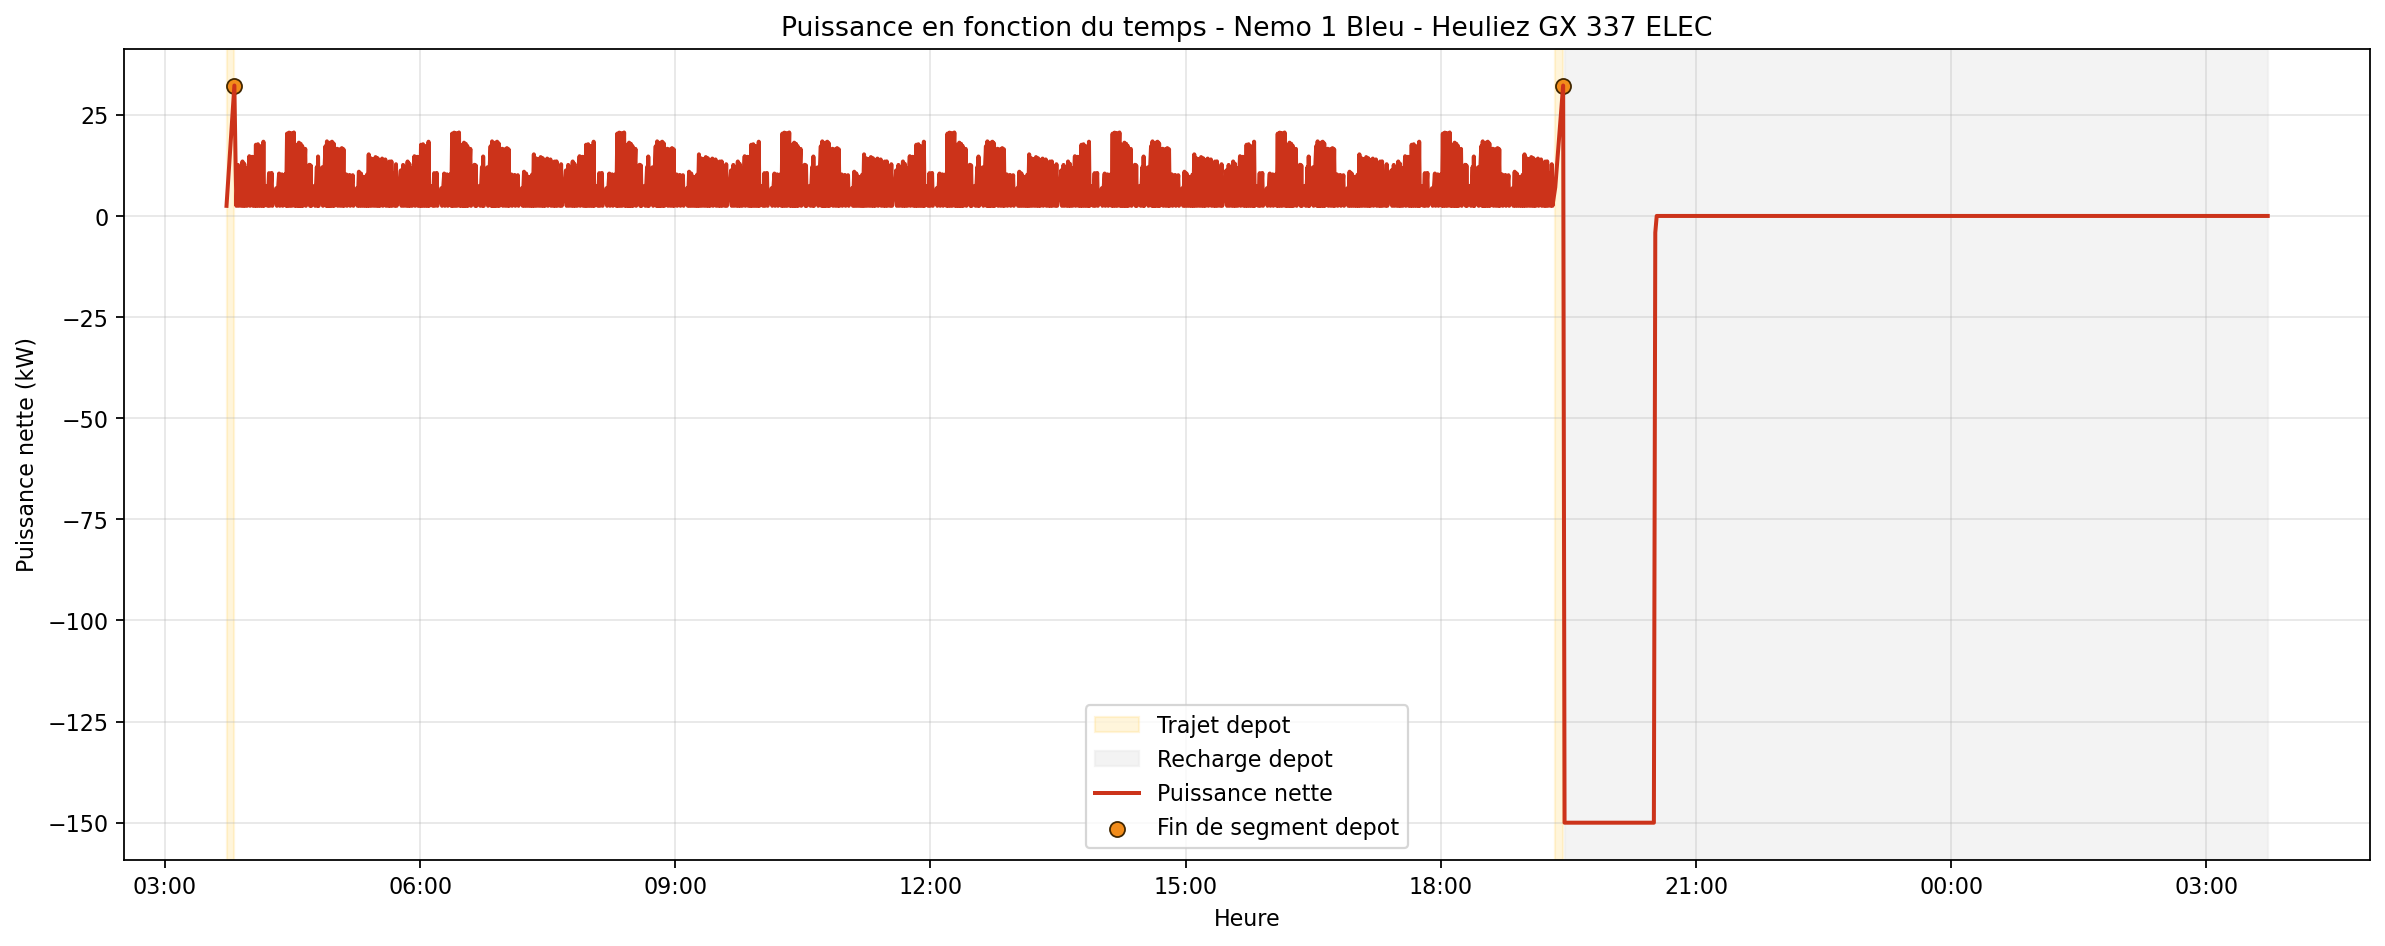
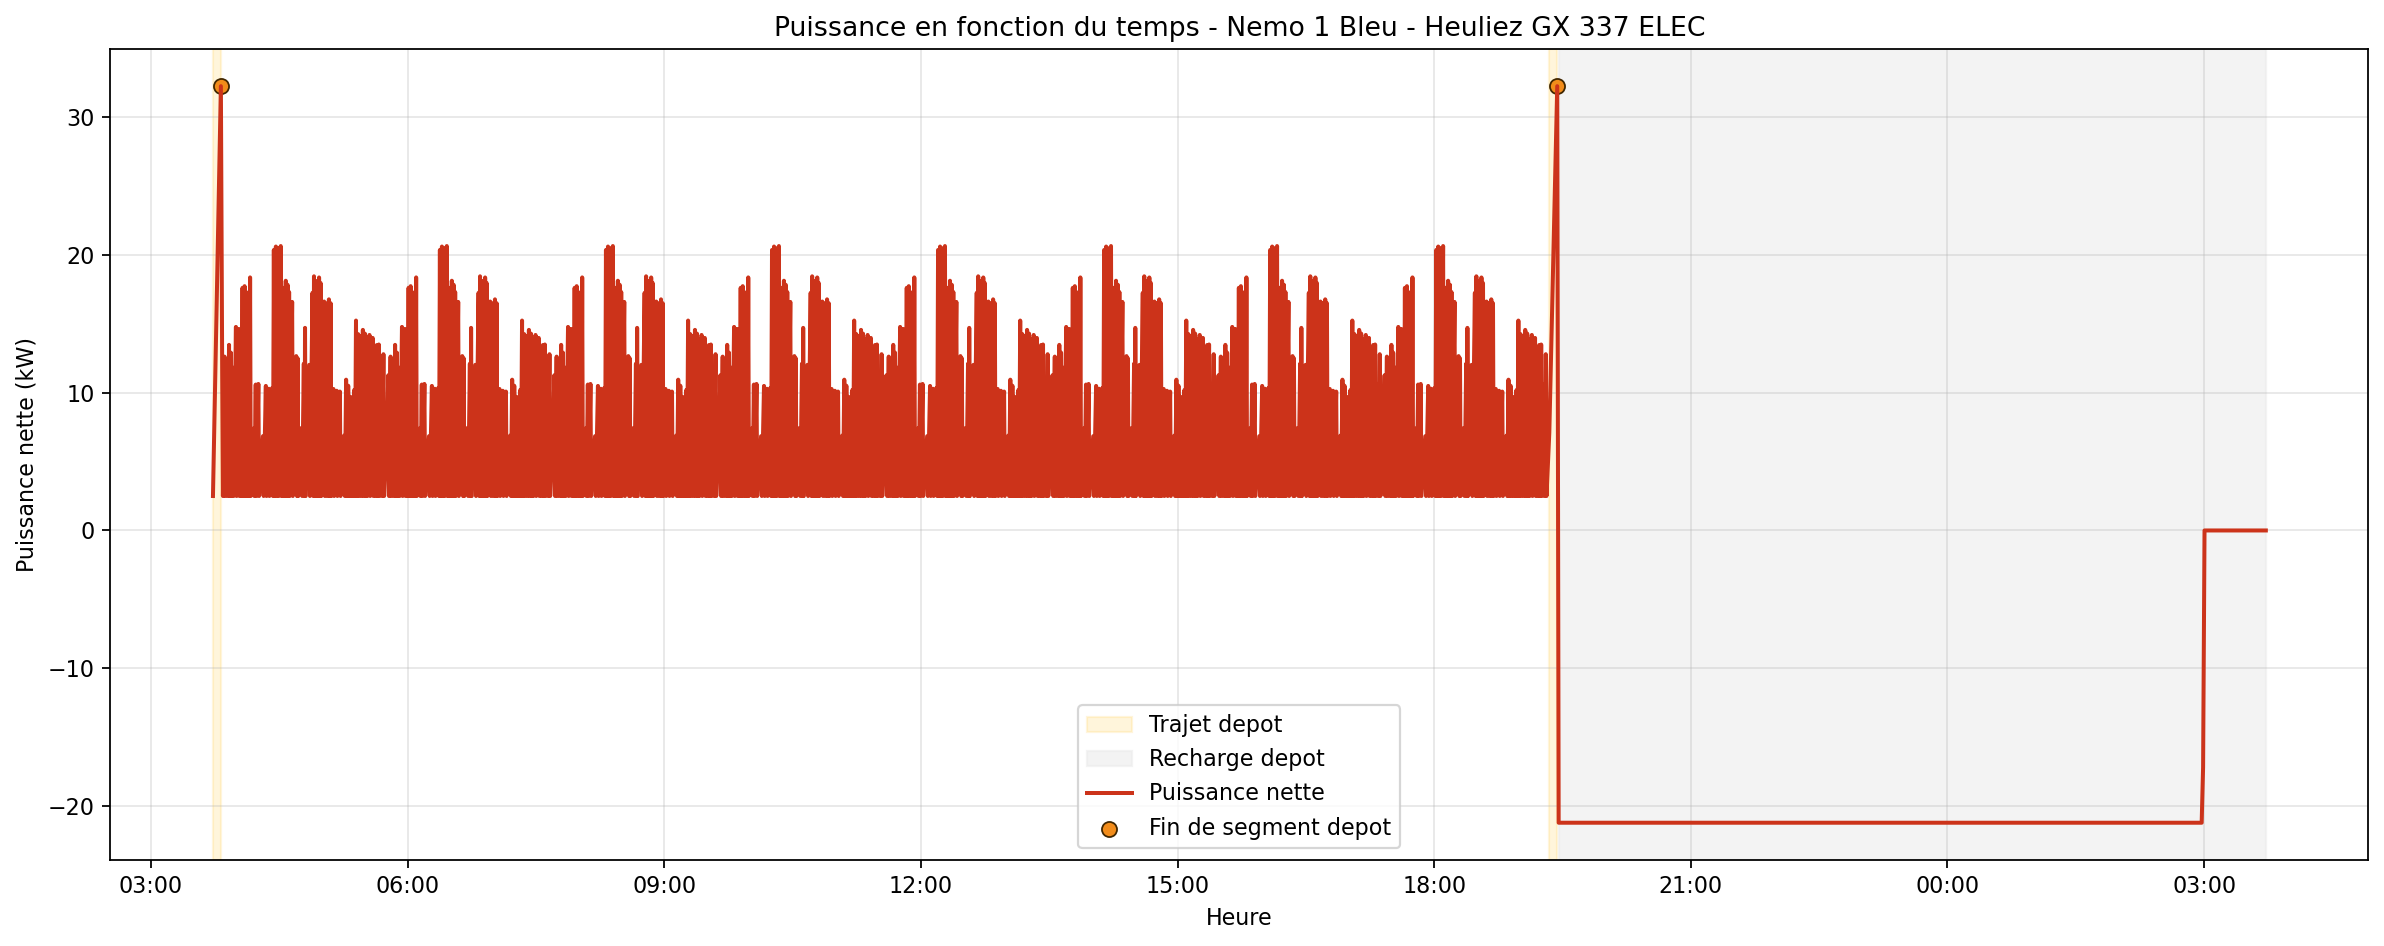
correction du scénario 2
correction du scénario 2 et cap du SOC à 100%

diff --git a/P26-Modélisation analyse technico/CODE PYTHON MODEL/data_entry.py b/P26-Modélisation analyse technico/CODE PYTHON MODEL/data_entry.py
@@ -1,7 +1,54 @@
 import pandas as pd
 import numpy as np
- 
- 
+
+
+def apply_scenario_modifications(tabl: pd.DataFrame, scenario: int) -> pd.DataFrame:
+    """
+    Applique les modifications spécifiques au scénario sur le tableau de données.
+    
+    Scénario 2 & 3 : Allonge le temps d'arrêt aux terminus (30s → 3min) pour
+    permettre la recharge pendant les arrêts.
+    
+    Terminus = premier et dernier arrêt de chaque trajet (identifiés par changement de TripID).
+    
+    Parameters
+    ----------
+    tabl     : pd.DataFrame  données du trajet (colonnes : Stop, deltaT, TripID)
+    scenario : int           numéro du scénario (1, 2 ou 3)
+    
+    Returns
+    -------
+    pd.DataFrame  données modifiées (avec colonne 'IsTerminusRecharge' pour les scénarios 2-3)
+    """
+    if "IsTerminusRecharge" not in tabl.columns:
+        tabl = tabl.copy()
+        tabl["IsTerminusRecharge"] = False
+    else:
+        tabl = tabl.copy()
+    
+    if scenario in (2, 3):
+        # Identifier les terminus: dernier arrêt de chaque trajet
+        # Un arrêt est un terminus si:
+        # 1. Stop == 0 (c'est un arrêt)
+        # 2. deltaT ≈ 30s (durée standard d'arrêt)
+        # 3. C'est le dernier arrêt avant changement de TripID (terminus)
+        
+        if "TripID" in tabl.columns:
+            trip_changes = tabl["TripID"] != tabl["TripID"].shift()
+            terminus_indices = trip_changes[trip_changes].index - 1
+            
+            # Vérifier que ce sont bien des arrêts avec deltaT ≈ 30s
+            terminus_mask = (
+                tabl.index.isin(terminus_indices) &
+                (tabl["Stop"] == 0) &
+                (abs(tabl["deltaT"] - 30) < 0.1)
+            )
+            tabl.loc[terminus_mask, "deltaT"] = 3 * 60  # 30s → 3min (180s)
+            tabl.loc[terminus_mask, "IsTerminusRecharge"] = True
+    
+    return tabl
+
+
 def data_entry(path: str, scenario: int, N: int):
     """
     Charge et prépare les données de trajet à partir d'un fichier Excel.

diff --git a/P26-Modélisation analyse technico/CODE PYTHON MODEL/service_simulation.py b/P26-Modélisation analyse technico/CODE PYTHON MODEL/service_simulation.py
@@ -8,6 +8,7 @@ import pandas as pd
 
 from bus_models import BusModel, get_bus_model
 from configuration_simulation import ConfigurationSimulation
+from data_entry import apply_scenario_modifications
 from gtfs_data import load_single_bus_service
 from route_power import calculer_puissance_parcours
 from route_soc import calculer_soc_parcours, construire_message_alerte_batterie
@@ -89,6 +90,12 @@ def executer_simulation(
     modele_bus = get_bus_model(configuration_simulation.id_modele_bus)
     tableau_parcours, metadonnees_gtfs = load_single_bus_service(
         configuration_simulation.gtfs
+    )
+    
+    # Appliquer les modifications spécifiques au scénario
+    tableau_parcours = apply_scenario_modifications(
+        tabl=tableau_parcours,
+        scenario=configuration_simulation.recharge.scenario,
     )
 
     tableau_parcours = calculer_puissance_parcours(

diff --git a/P26-Modélisation analyse technico/CODE PYTHON MODEL/route_power.py b/P26-Modélisation analyse technico/CODE PYTHON MODEL/route_power.py
@@ -44,10 +44,12 @@ def calculer_puissance_parcours(
     tabl["BusModelName"] = model.display_name
 
     if configuration_recharge.scenario in (2, 3):
-        tabl.loc[
-            tabl["deltaT"] == configuration_recharge.duree_recharge_terminus_s,
-            "PowerC",
-        ] = configuration_recharge.puissance_borne_terminus_kw * 1000.0
+        # Utiliser le marqueur IsTerminusRecharge si disponible, sinon fallback sur deltaT
+        if "IsTerminusRecharge" in tabl.columns:
+            mask = tabl["IsTerminusRecharge"] == True
+        else:
+            mask = tabl["deltaT"] == configuration_recharge.duree_recharge_terminus_s
+        tabl.loc[mask, "PowerC"] = configuration_recharge.puissance_borne_terminus_kw * 1000.0
 
     if configuration_recharge.scenario == 3:
         mask = (

diff --git a/P26-Modélisation analyse technico/CODE PYTHON MODEL/bus_analysis.py b/P26-Modélisation analyse technico/CODE PYTHON MODEL/bus_analysis.py
@@ -52,8 +52,8 @@ def build_realtime_profile(tabl: pd.DataFrame) -> pd.DataFrame:
     profile["CumulativeEnergyUsed_kWh"] = profile["EnergyUsed_kWh"].cumsum()
     profile["CumulativeEnergyCharged_kWh"] = profile["EnergyCharged_kWh"].cumsum()
     profile["NetBatteryEnergy_kWh"] = (
-        profile["CumulativeEnergyUsed_kWh"]
-        - profile["CumulativeEnergyCharged_kWh"]
+        profile["CumulativeEnergyCharged_kWh"]
+        - profile["CumulativeEnergyUsed_kWh"]
     )
     if "TripID" in profile.columns:
         profile["IsDepotSegment"] = _is_depot_trip_id(profile["TripID"])

diff --git a/P26-Modélisation analyse technico/CODE PYTHON MODEL/route_soc.py b/P26-Modélisation analyse technico/CODE PYTHON MODEL/route_soc.py
@@ -26,7 +26,7 @@ def calculer_soc_parcours(
     cumulative_soc_pct = np.cumsum(delta_soc) * 100.0
 
     tabl = tabl.copy()
-    tabl["SoC"] = cumulative_soc_pct + initial_soc_pct
+    tabl["SoC"] = np.minimum(cumulative_soc_pct + initial_soc_pct, 100.0)  # Limiter à 100% max
     tabl["BatteryCapacity_kWh"] = battery_capacity_kwh
 
     return tabl, battery_capacity_kwh
